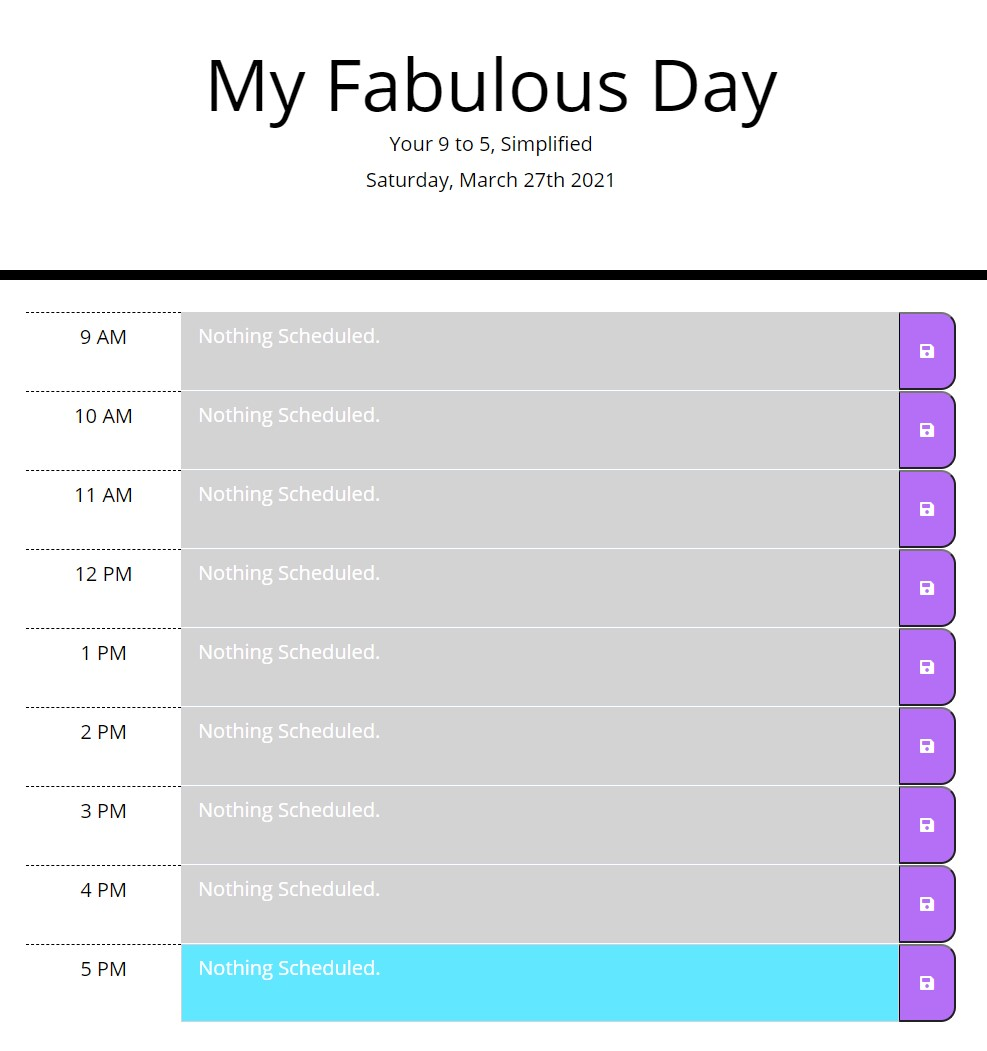
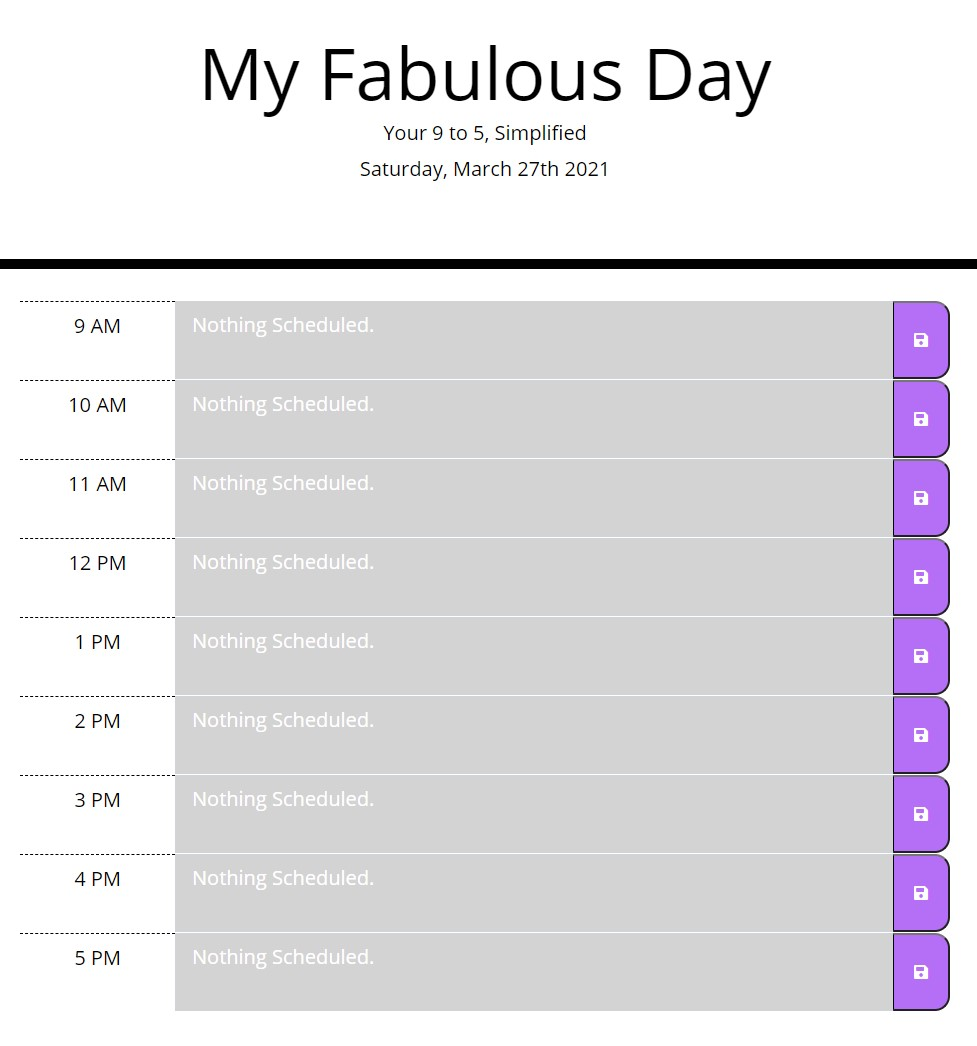
Made all images clickable links to Github projects as well as my own personal work. Updated technical skills on my resume to actually include my full stack learnings so far. Restyled color scheme of website to make it cleaner as the images contain many colors and the previous constrasts were too har

diff --git a/index.html b/index.html
@@ -14,7 +14,7 @@
             <h1> Laurie Drew </h1><span>Business Owner, Metalsmith, Web Developer</span>
                 <nav>
                     <ul>
-                        <a href="#profile">profile</a>
+                        <a href="#bio">bio</a>
                         <a href="#work">my work</a>
                         <a href="#resume">resume</a>
                         <a href="#contact">contact</a>
@@ -25,11 +25,12 @@
         <hr><i class="fas fa-bolt"></i><hr>
         <main>
             <h2>a b o u t m e</h2>
-                <section id="profile">
-                        <figure><img src= "assets/Me.JPG" alt="Lauren Drew"></img>
+                <section id="bio">
+                        <figure><img src= "assets/Me.JPG" alt="Image of Lauren Drew"></img>
                             <p>Long Island based artist, business professional, and burdgeoning web developer.</p>
                             <p>Combining an extensive background in various professional fields with my artistic endeavors in order to scale e-commerce business.</P>
                             <p>Currently enrolled in Columbia University's School of Engineering Coding Bootcamp.</p>
+                            <p>Interested in building out e-commerce websites for other Small Business Owners</p>
                             <p>Long Island, New York | email: laurenn.drew@gmail.com | mobile: 516.816.1872</p>
                 </section>
                                                 <hr><i class="fas fa-bolt"></i><hr>
@@ -38,8 +39,15 @@
             <h3>m y w o r k</h3>
             <section id="work">
                 <div class="column">
+                    <a href="https://lawriedrew.github.io/team-project/">
                     <img src="assets/TipsyTarot.jpg" alt="Screen shot of The Tipsy Tarot application I helped create" style="width: 100%">
+                </a>
+                <a href="https://lawriedrew.github.io/Day-Planner/">
                     <img src="assets/DayPlanner.jpg" alt= "Screen shot of the Daily Planner I created" style="width: 100%">
+                </a>
+                    <a href="https://www.etsy.com/shop/getgonegoods">
+                        <img src="assets/GGGRing.png" alt="Coin ring that I fabricated" style="width: 100%;">
+                    </a>
                 </div>
             </section>
             <h4>r e s u m e</h4>
@@ -57,17 +65,17 @@
                 <div class="bottom-nav">
                     <ul class="contact">
                         <a class="fontawesome" href="https://www.linkedin.com/in/lauren-drew-5a737747" target="Lauren Drew LinkedIn">
-                            <span style="font-size: 3em; color: yellow;">
+                            <span style="font-size: 3em; color:#161a14;">
                             <i class="fab fa-linkedin-in"></i>
                             </span></a>
                             
                         <a class="fontawesome" href="https://github.com/LawrieDrew" target="Lauren Drew GitHub">
-                            <span style="font-size: 3em; color: yellow;">
+                            <span style="font-size: 3em; color:#161a14;">
                             <i class="fab fa-github"></i>
                             </span></a>
                             
                         <a class="fontawesome" href="https://www.instagram.com/getgonegoods/" target="Get Gone Goods">
-                        <span style="font-size: 3em; color: yellow;">
+                        <span style="font-size: 3em; color:#161a14;">
                         <i class="fab fa-instagram"></i>
                         </span></a>
                     </ul>

diff --git a/style.css b/style.css
@@ -1,8 +1,7 @@
-/* tried to utilize root for as much styling as possible to reduce excessive elements in style sheet then went in with targeting very specific elements after */
 
 :root {
-    background-color: #a9a9a9;
-    color:#ffff00;
+    background-color: #fafafa;
+    color:#161a14;
     font-family: 'Courier New', Courier, monospace;
     text-align: center;
     }
@@ -14,29 +13,28 @@
     text-align: center;
     }
     
-    #profile img {
-        border: 5px solid #4682B4;
+    #bio img {
+        border: 5px solid #161a14;
         border-radius: 50%;
         width: 100%;
         align: center;
         margin-top: 2%;
     }
     
-    /* After much trial and error, I am stumped as to why there is no border around my flexbox and its selected elements */
     
     .flex-container {
-        border: 5px #4682B4;
+        border: 5px #161a14;
     }
     
     .row {
         display: flex;
-        border: 5px #4682B4;
+        border: 5px #161a14;
     }
     
     .column {
         flex: 50%;
         padding: 5px;
-        border: 5px #4682B4;
+        border: 5px #161a14;
     }
     
     @media screen and (max-width: 50px) {
@@ -49,7 +47,7 @@
         text-align: center;
         size: 20px; 
         width: 100%;
-        background: #4682B4;
+        background:#fafafa;
     }
     
     .fontawesome {
